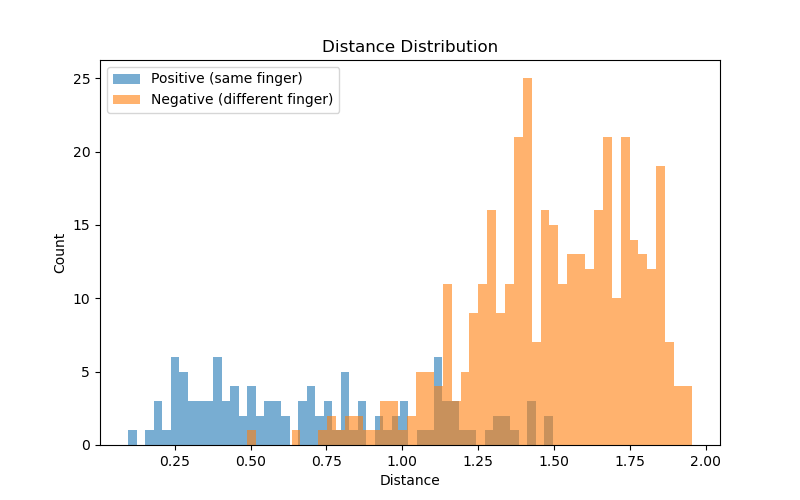
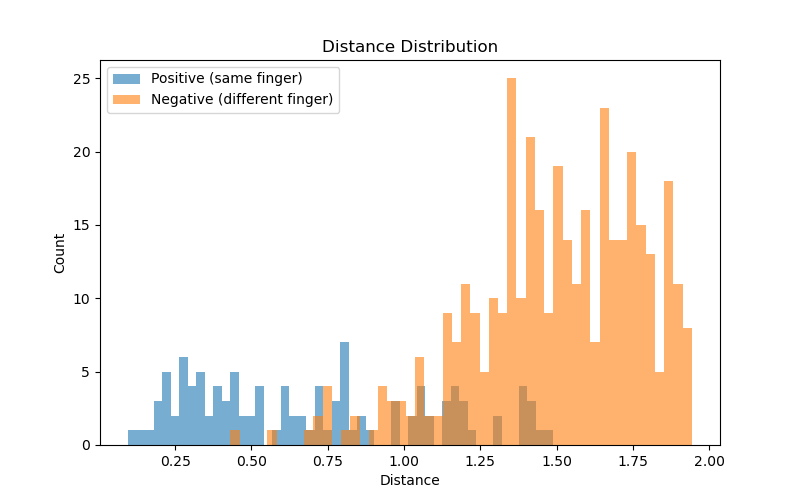
update finetune on new model
finetune on new_model_ftFalse_augTrue_blTrue_bs8_ep20_lr0.0005_mg2.0

diff --git a/project3_fingerprint_fvc2000/train.py b/project3_fingerprint_fvc2000/train.py
@@ -75,7 +75,7 @@ def main():
 
     if args.finetune:                
         default_lr     = 1e-4
-        default_epoch  = 3
+        default_epoch  = 10
     else:                            
         default_lr     = 5e-4
         default_epoch  = 20
